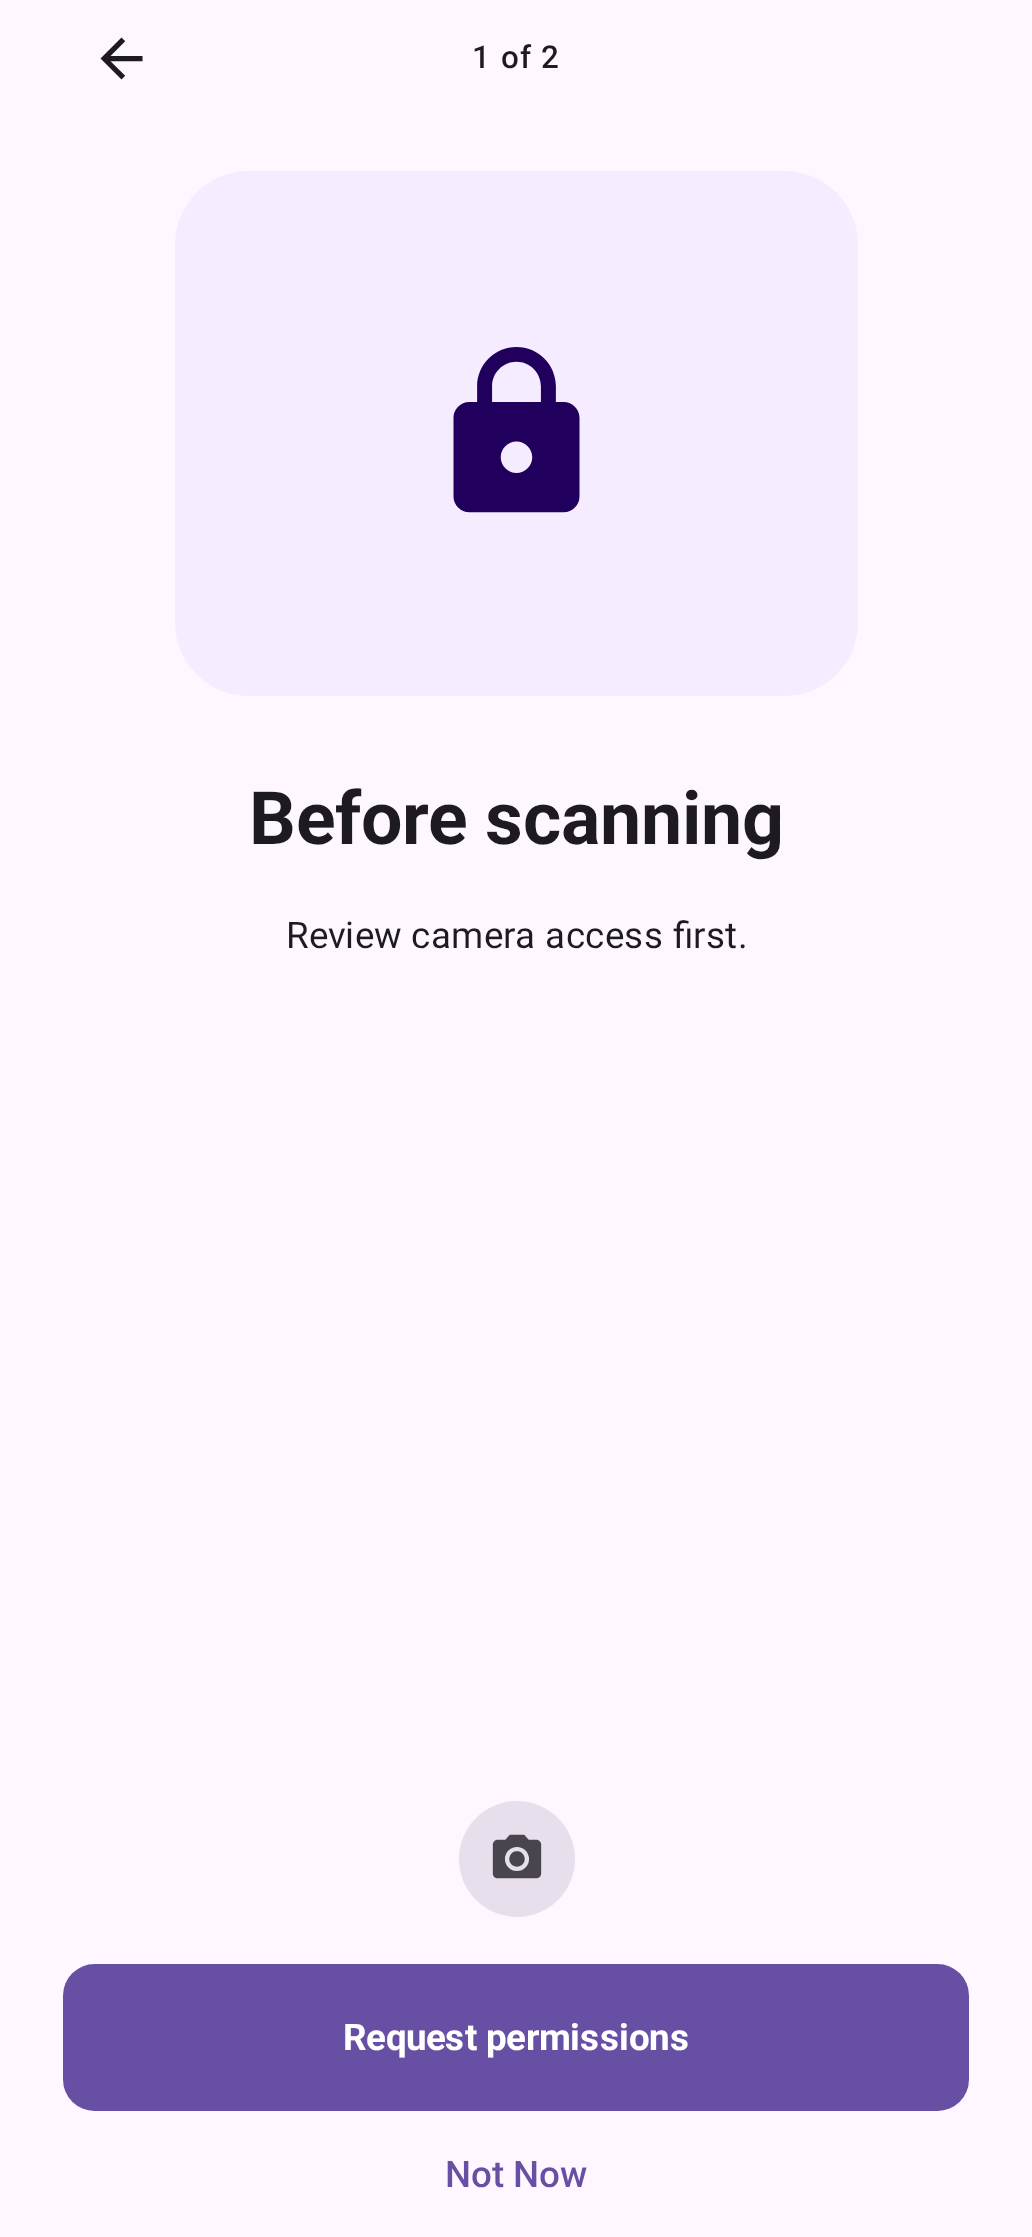
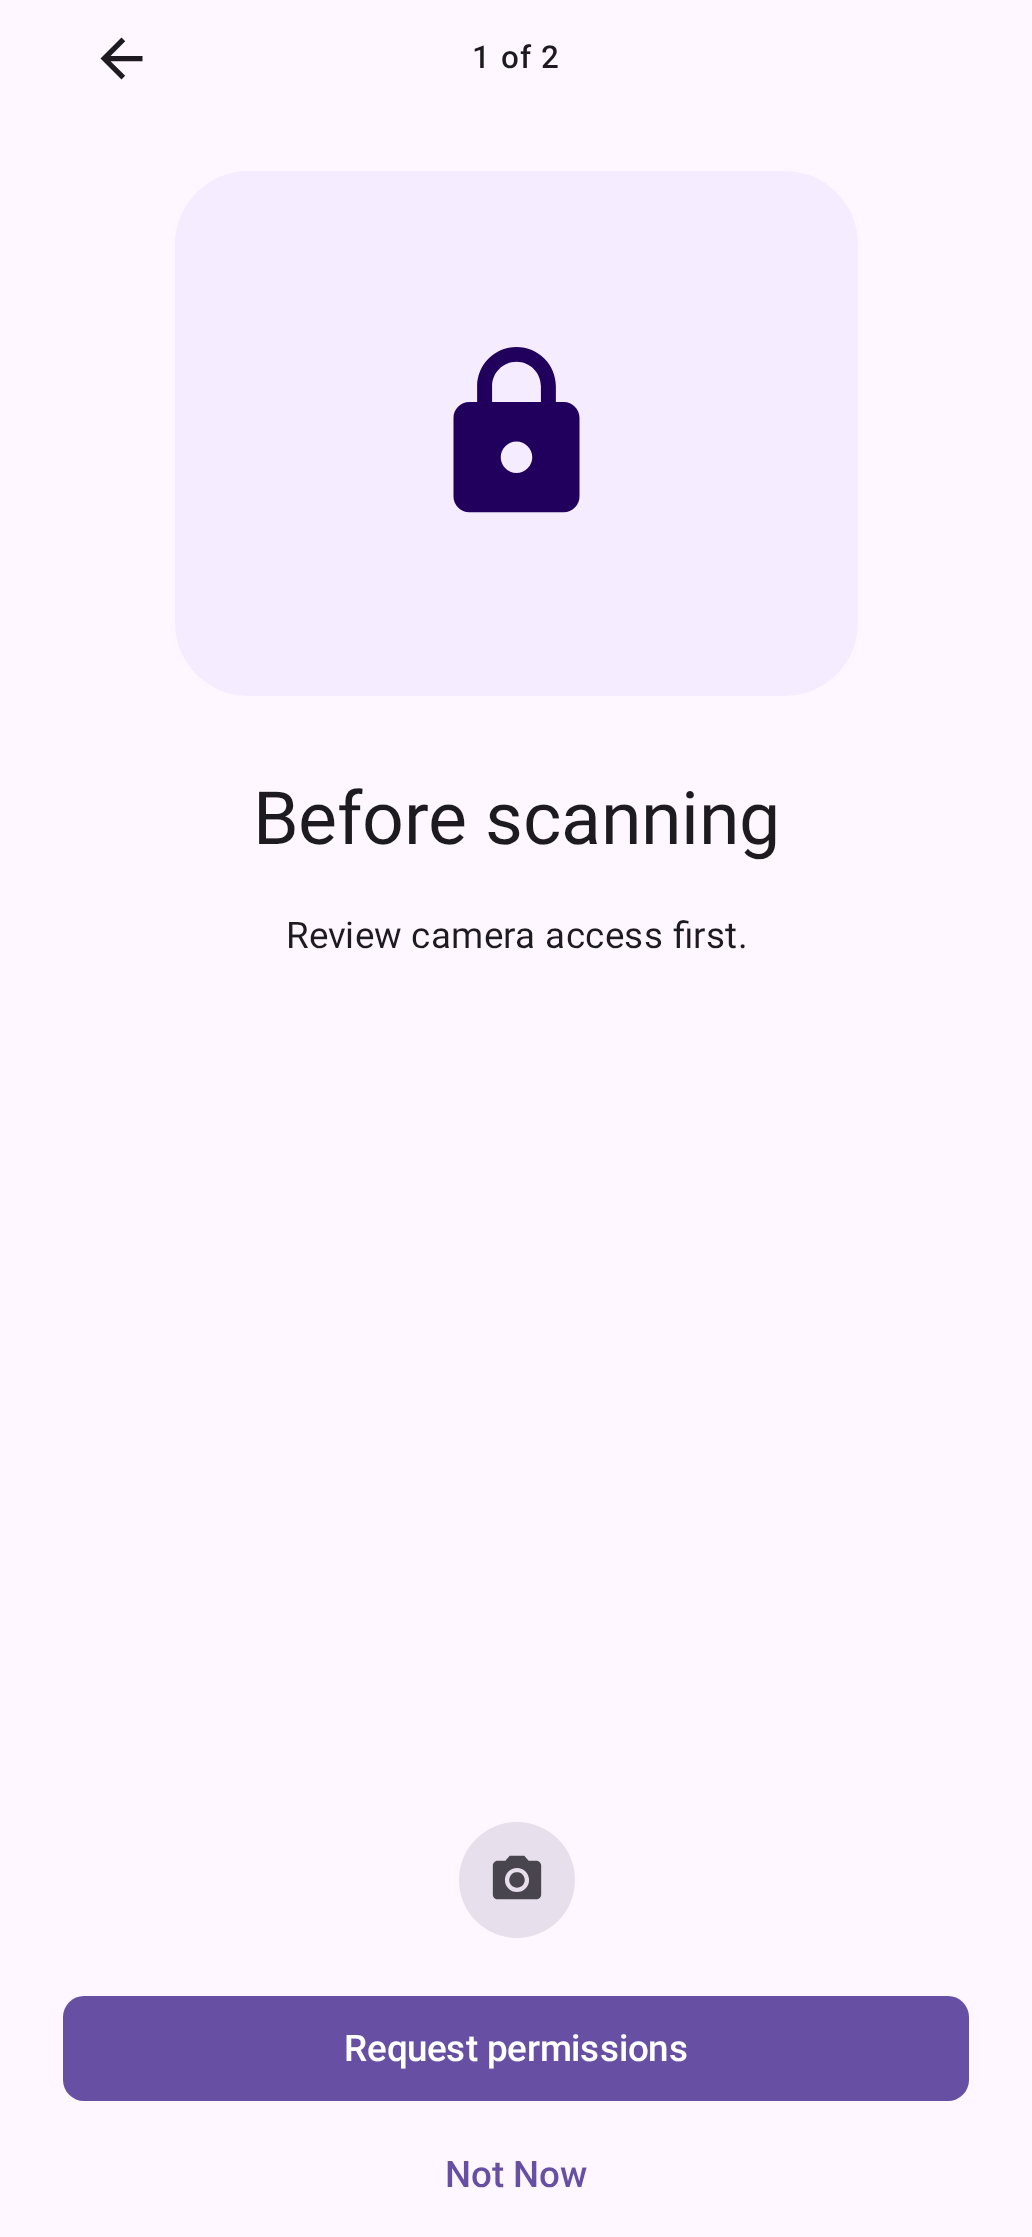
Accept reviewed host-themed permission screenshots with matching CI provenance

diff --git a/docs/screenshots/README.md b/docs/screenshots/README.md
@@ -1,6 +1,6 @@
 # README screenshots
 
-The seven accepted PNGs were rendered by the [screenshot workflow](https://github.com/lambdawalker/android.apexfission.permissions/actions/runs/40774456236) at commit `a3638a937244d05b13cdb0810360ac8037530544`, downloaded from its `permission-screen-images` artifact (`12854851431`), visually reviewed, and accepted with `screenshots:update`. The capture input hash matches the current library, fixture, and toolchain inputs. The manifest records the original capture environment and workflow provenance. No images were manually composed or edited.
[1 lines of base64/hex data omitted]
 
 | File | `PermissionBundleScreenshotTest` preview |
 | --- | --- |
@@ -12,7 +12,7 @@ The seven accepted PNGs were rendered by the [screenshot workflow](https://githu
 | `overflowing-icons.png` | `overflowOverview` |
 | `segmented-reading-progress.png` | `autoplayReadingProgress` |
 
-These captures include the layout spacing change from `77233fd`. `single-permission-overview.png` correctly maps to `singlePermissionOverview` (two pages, including the overview). A no-overview single permission is a separate scenario; do not replace or relabel the overview image to represent it.
+These captures include host Material shapes, typography and standard action sizing. `single-permission-overview.png` correctly maps to `singlePermissionOverview` (two pages, including the overview). A no-overview single permission is a separate scenario; do not replace or relabel the overview image to represent it.
 
 Use the automated commands below to refresh images after UI changes. Static previews do not capture Android system prompts.
 
